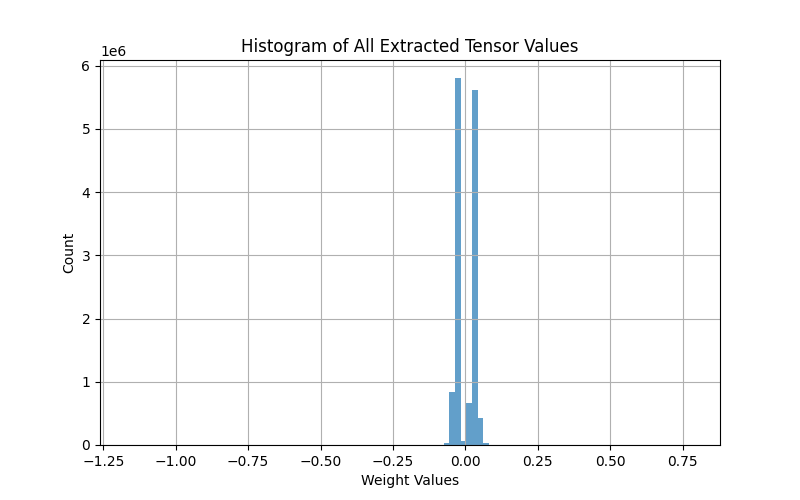
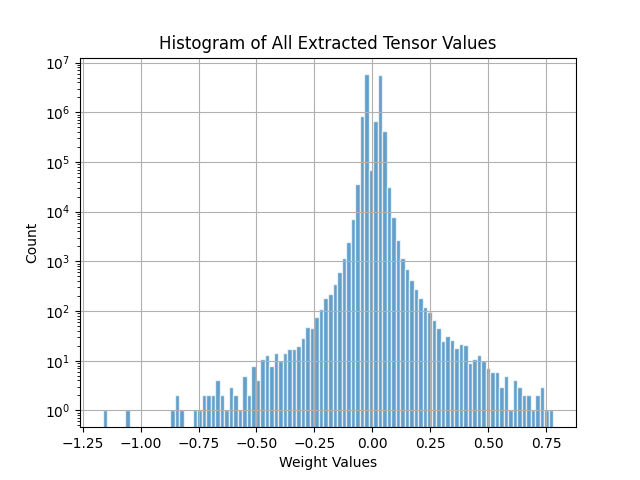
incorporated changes on plot size and scale

diff --git a/visualizations/weight_distribution.py b/visualizations/weight_distribution.py
@@ -6,8 +6,8 @@ import os
 
 
 def plot_histogram(data, title, save_path):
-    plt.figure(figsize=(8, 5))
-    plt.hist(data, bins=100, alpha=0.7)
+    # plt.figure(figsize=(8, 5))
+    plt.hist(data, bins=100, alpha=0.7, log=True, edgecolor="white")
     plt.title(title)
     plt.xlabel("Weight Values")
     plt.ylabel("Count")
